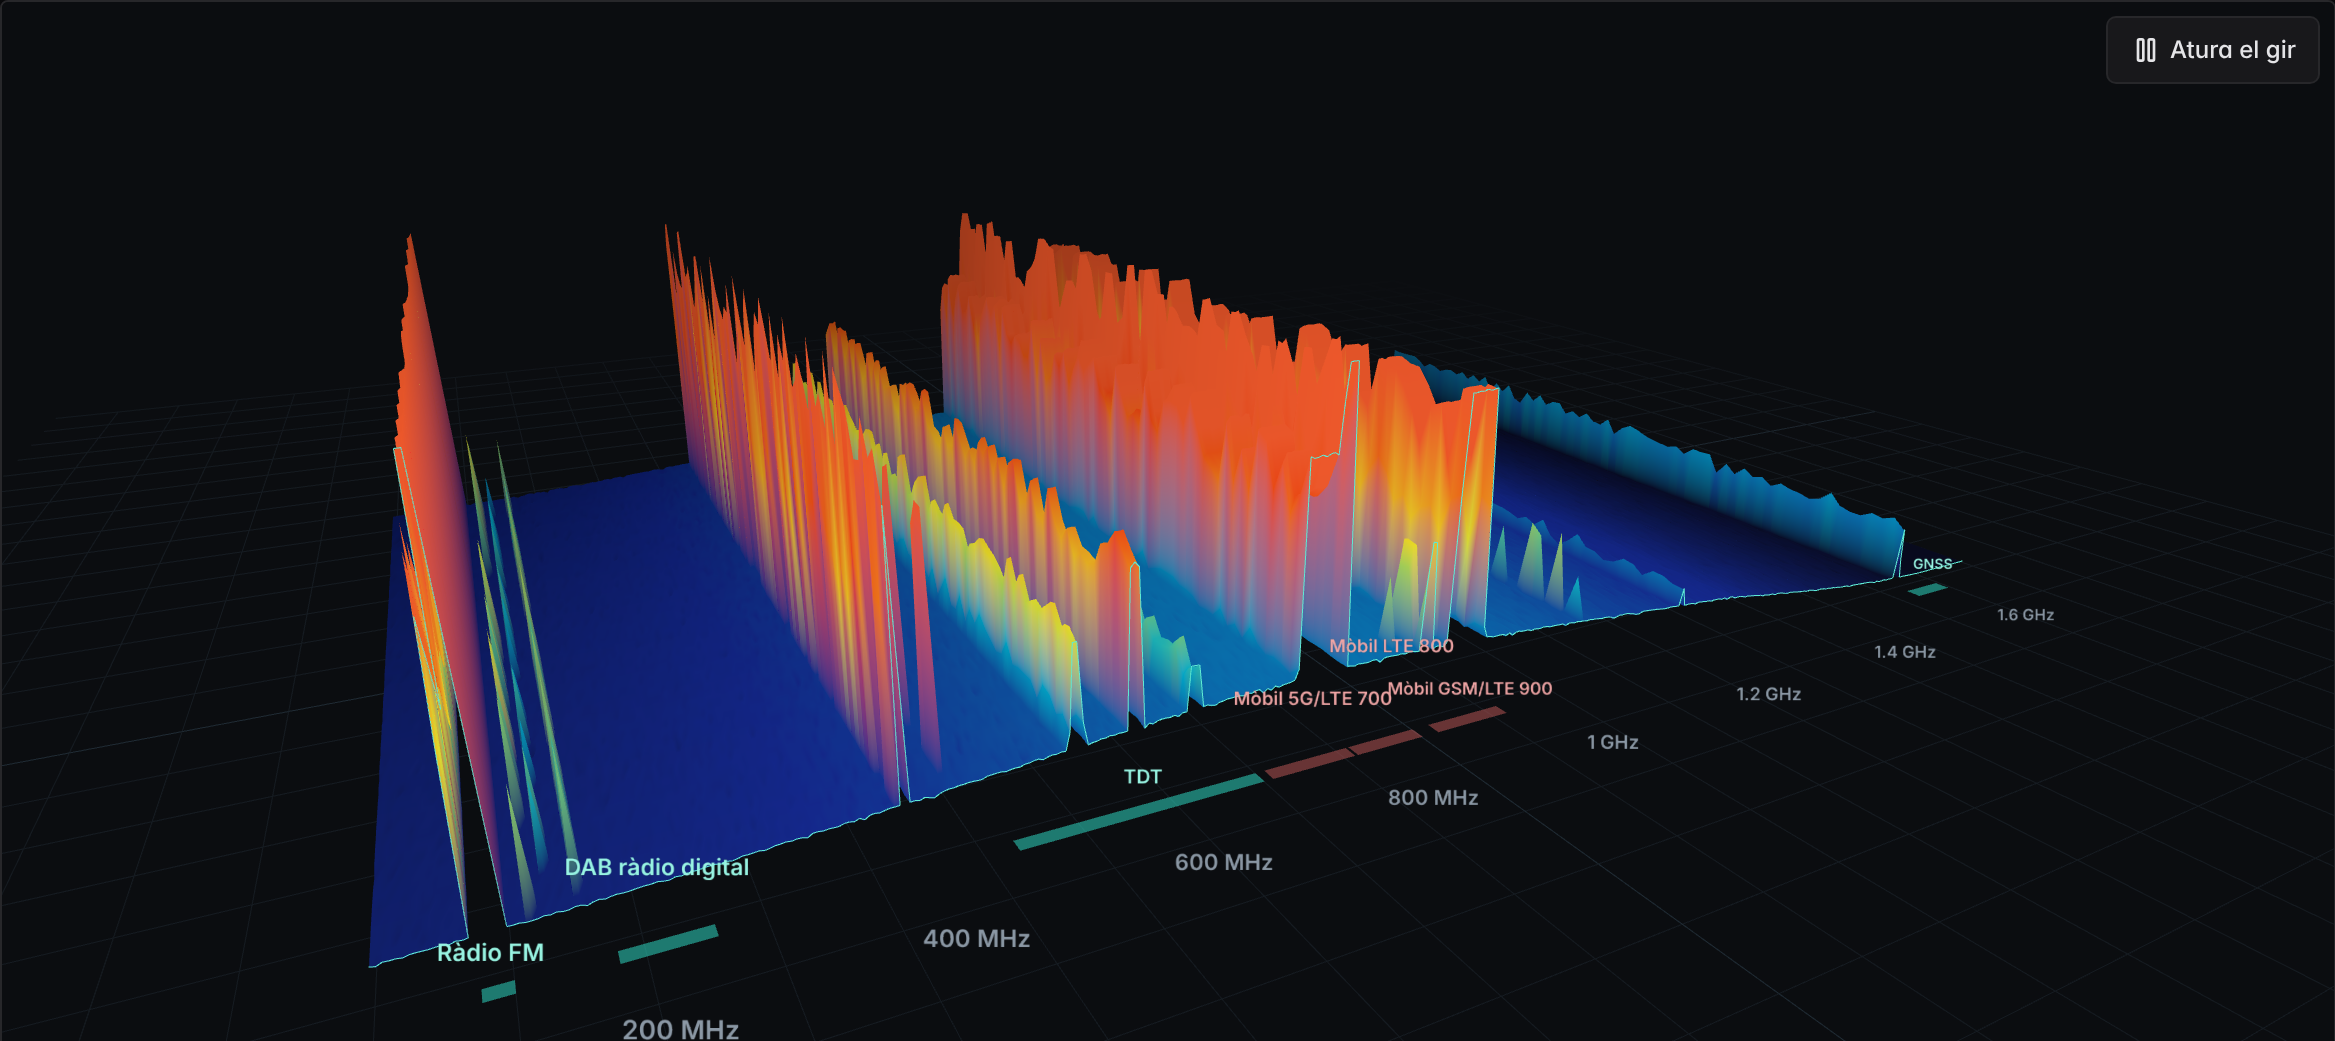
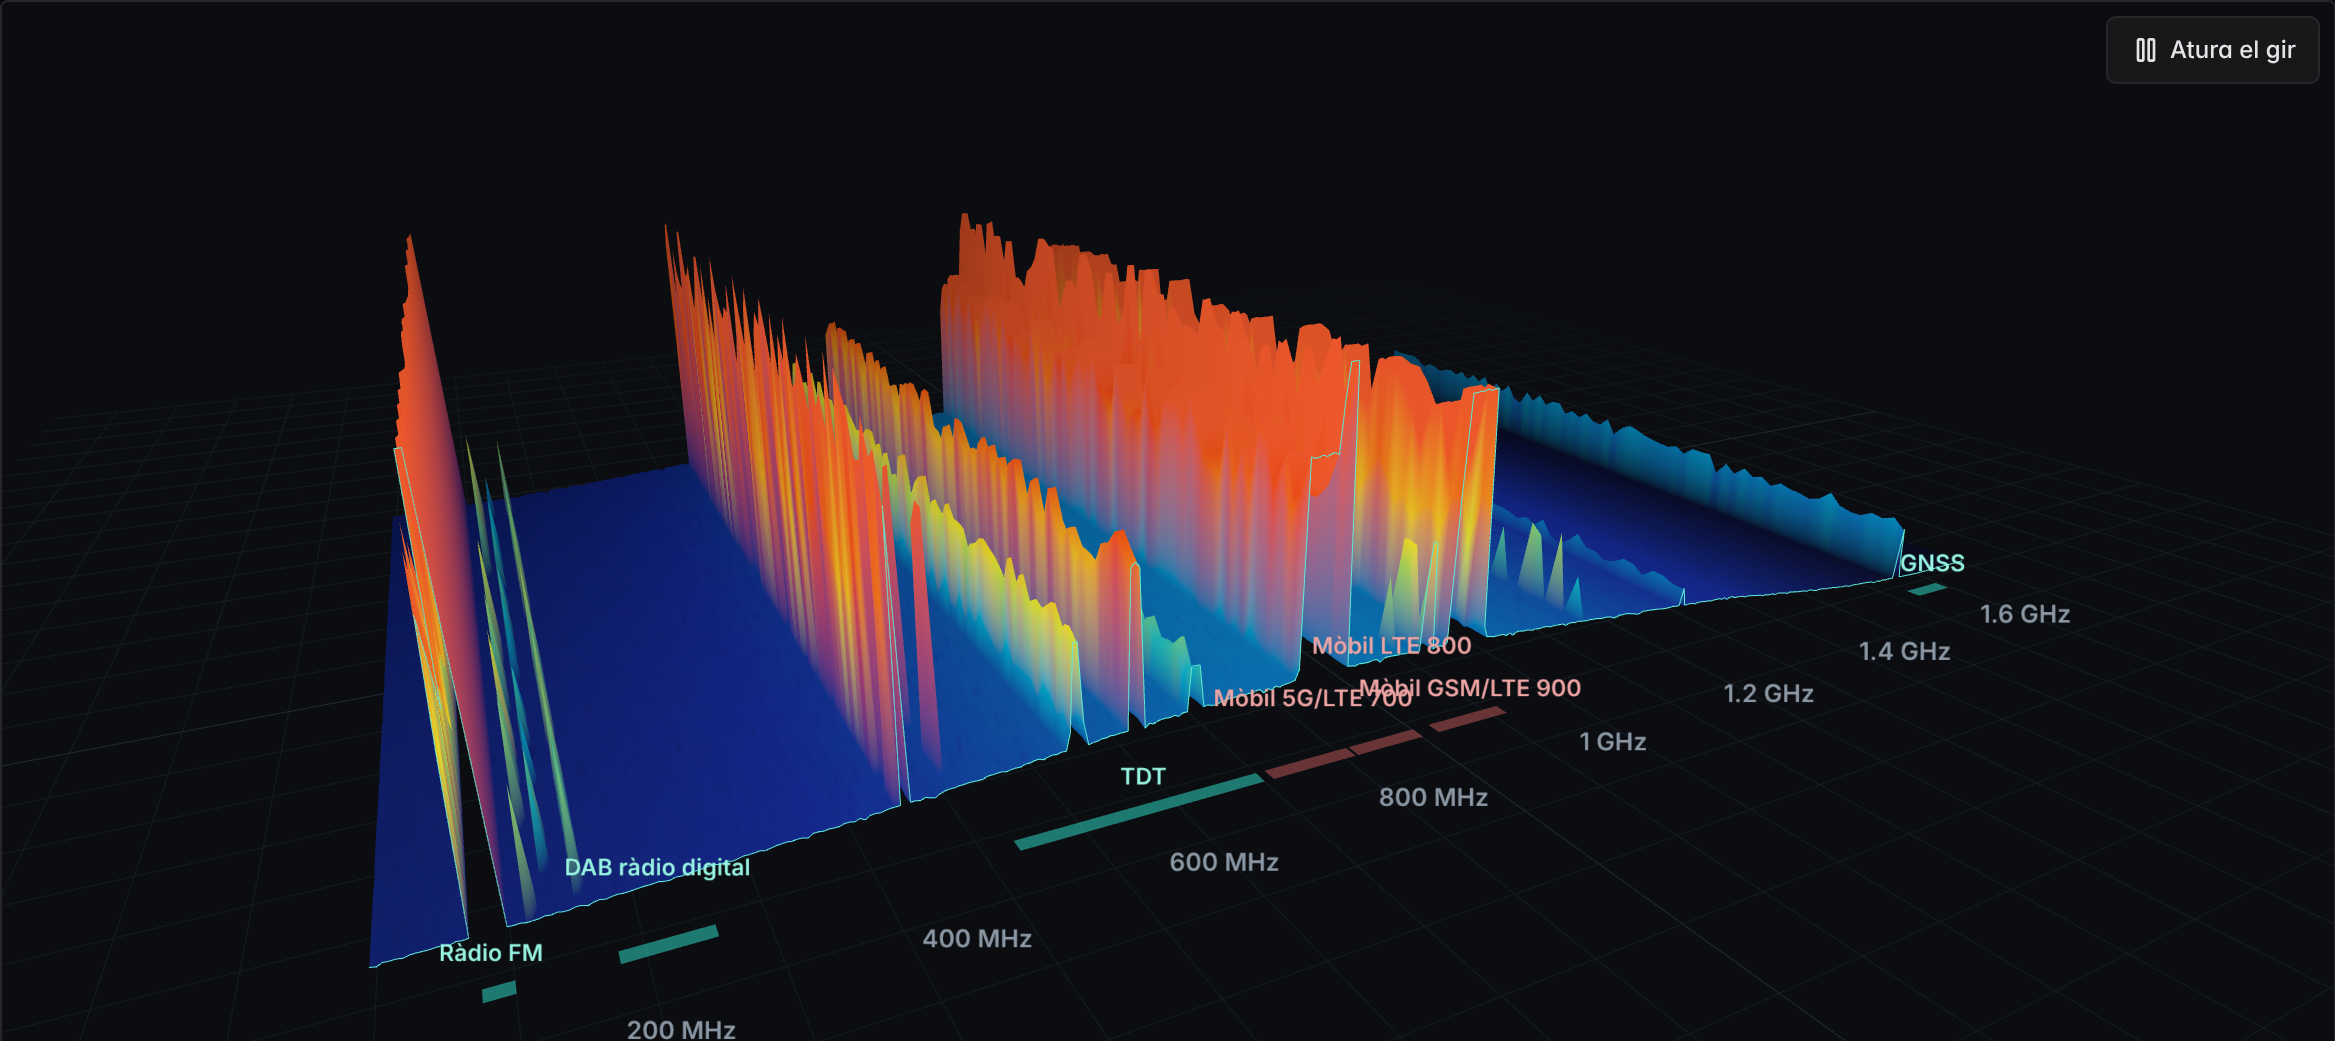
3D views: labels keep a constant size on screen

diff --git a/web/src/lib/three-helpers.ts b/web/src/lib/three-helpers.ts
@@ -14,7 +14,10 @@ export function disposeGroup(group: THREE.Group) {
   }
 }
 
-/** A text label that always faces the camera. */
+/**
+ * A text label that always faces the camera and keeps the same size on screen however far it is, so
+ * near labels do not balloon and far ones stay readable.
+ */
 export function label(text: string, color: string, scale = 1): THREE.Sprite {
   const pad = 8;
   const font = '600 28px system-ui, sans-serif';
@@ -29,9 +32,10 @@ export function label(text: string, color: string, scale = 1): THREE.Sprite {
   ctx.fillText(text, pad, canvas.height / 2);
   const texture = new THREE.CanvasTexture(canvas);
   texture.colorSpace = THREE.SRGBColorSpace;
-  const sprite = new THREE.Sprite(new THREE.SpriteMaterial({ map: texture, transparent: true, depthWrite: false, depthTest: false }));
+  const sprite = new THREE.Sprite(new THREE.SpriteMaterial({ map: texture, transparent: true, depthWrite: false, depthTest: false, sizeAttenuation: false, fog: false }));
   sprite.renderOrder = 10; // text is always drawn on top of the scene
-  const h = 2.4 * scale;
+  // Without size attenuation the scale is a fraction of the view, not scene units.
+  const h = 0.036 * scale;
   sprite.scale.set((canvas.width / canvas.height) * h, h, 1);
   return sprite;
 }
